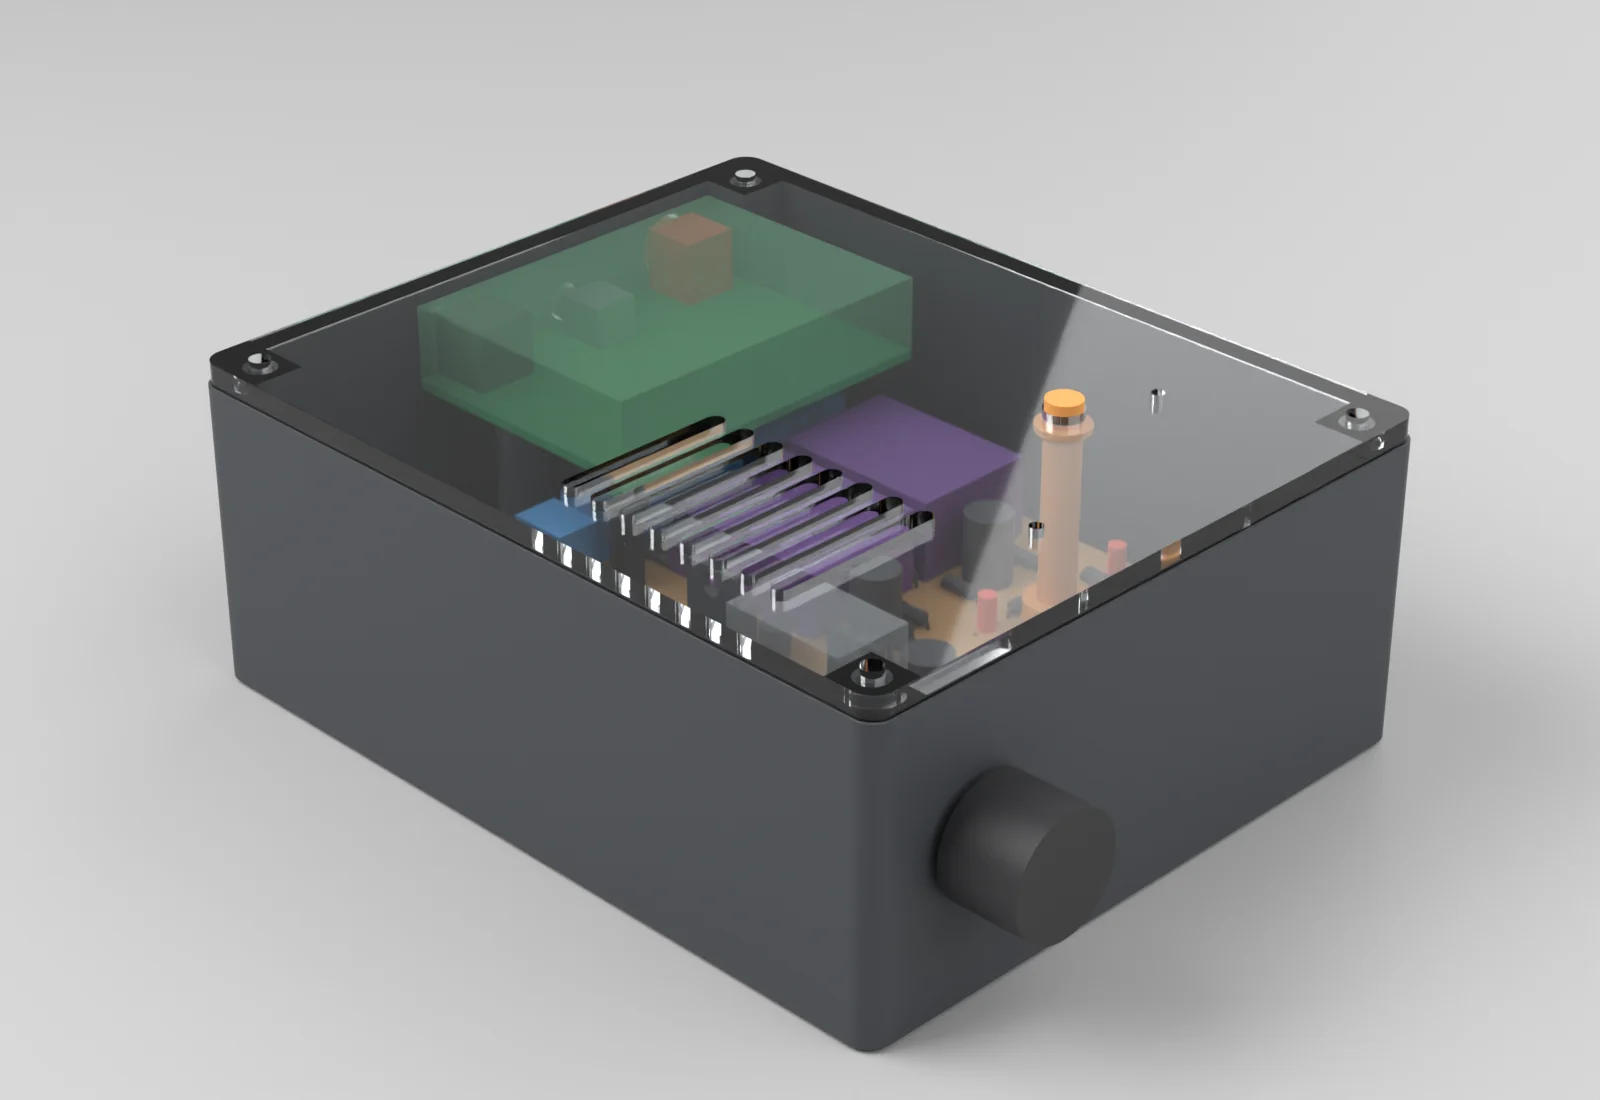
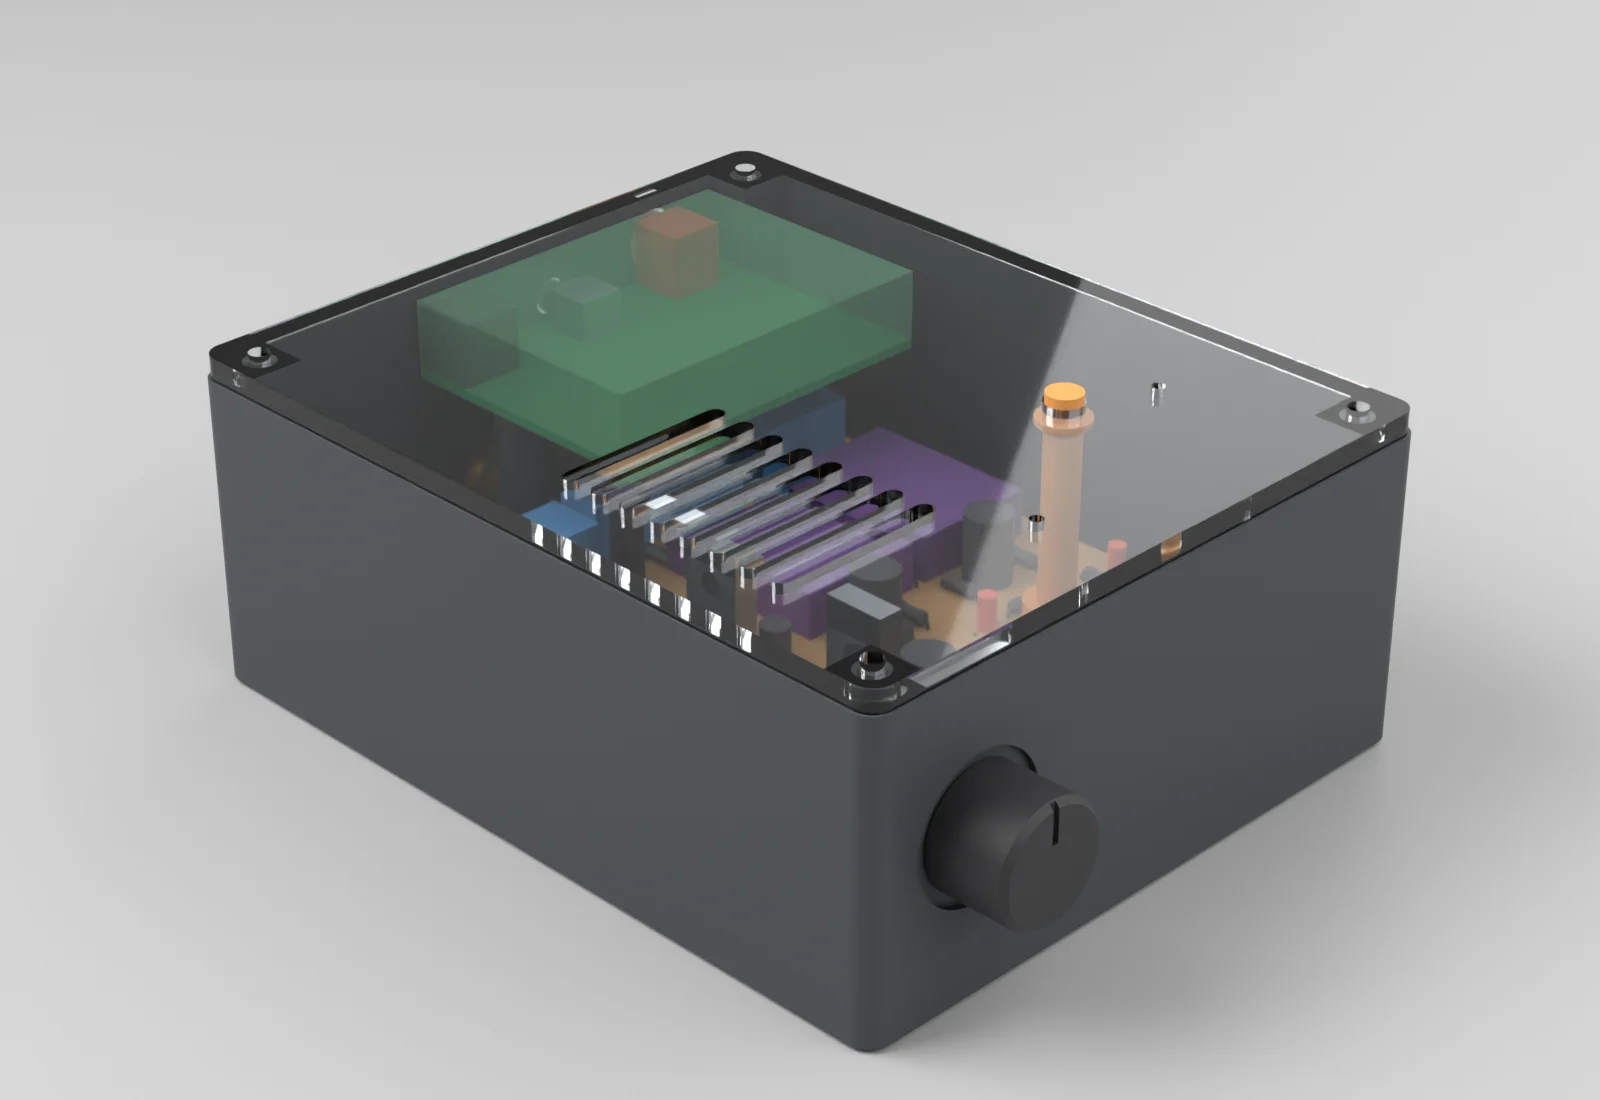
ESP32 surround processor: enclosure renders with the measured layout

diff --git a/src/content/projects/esp32-surround-processor.md b/src/content/projects/esp32-surround-processor.md
@@ -76,7 +76,7 @@ Measured before any firmware ran: 4.98 V and 3.21 V on the two rails, 128 mA fro
   <figcaption>The enclosure as designed: a printed base and a laser-cut lid in clear acrylic. Design render; not printed yet.</figcaption>
 </figure>
 
-The enclosure is a printed base with a lid cut from 4 mm clear acrylic, held by M3 screws in heat-set inserts. The optical and coax inputs and the four outputs sit on the rear panel and the volume knob on the front, away from the antenna. It is a parametric FreeCAD model generated from a Python script, checked for collisions against the board's 3D export. The dimensions of the bought-in parts are still being measured, so nothing has been printed.
+The enclosure is a printed base with a lid cut from 4 mm clear acrylic, held by M3 screws in heat-set inserts. The optical and coax inputs, four RCA outputs and the 9 V jack sit on the rear panel, and the volume knob on the front, away from the antenna. It is a parametric FreeCAD model generated from a Python script, checked for collisions against the board's 3D export. It is built on caliper measurements of the finished board; a few bought-in parts are still on their way, so nothing has been printed.
 
 <figure>
   <a href="/media/esp32-surround-processor/enclosure-exploded.webp" target="_blank" rel="noopener"><img src="/media/esp32-surround-processor/enclosure-exploded.webp" width="1500" height="1500" loading="lazy" alt="Exploded render: base, carrier board with the receiver module above it, the USER button cap and the acrylic lid" /></a>
